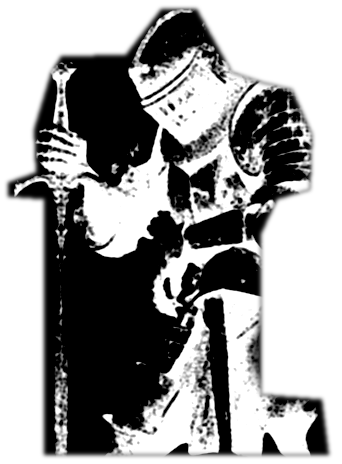
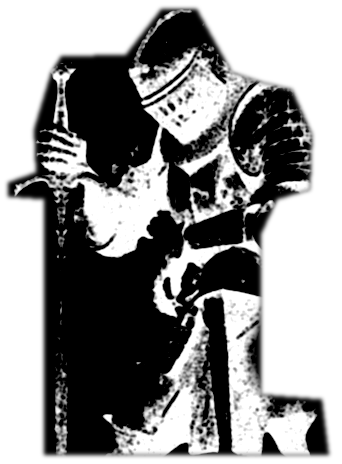
style(about): match kneeling knight to shrine tone and fade

diff --git a/src/components/sections/AboutSection.vue b/src/components/sections/AboutSection.vue
@@ -87,26 +87,25 @@ const { stop: stopSignObserver } = useIntersectionObserver(
            source is thresholded, so the photographed figure in the middle
            breaks into black gaps like the cut-out figures beside it. The
            top fades in a little and the bottom out, so the picture neither
-           starts nor ends in a hard cut. -->
+           starts nor ends in a hard cut. The fade sits on the frame, so the
+           knight in front fades with the shrine. -->
       <div
-        class="pointer-events-none relative order-last mt-12 aspect-[1179/956] w-full lg:absolute lg:inset-y-0 lg:right-0 lg:mt-0 lg:aspect-auto lg:w-[56%]"
+        class="pointer-events-none relative order-last mt-12 aspect-[1179/956] w-full [mask-image:linear-gradient(to_bottom,transparent,black_14%,black_62%,transparent)] lg:absolute lg:inset-y-0 lg:right-0 lg:mt-0 lg:aspect-auto lg:w-[56%]"
       >
         <DitherArt
           :src="shrineArt"
           :cell="4"
           :strength="0.85"
           is-outlined
-          class="absolute inset-0 [mask-image:linear-gradient(to_bottom,transparent,black_14%,black_62%,transparent)]"
+          class="absolute inset-0"
         />
         <!-- A knight kneeling at the shrine's foot, from Jonas' mockup, in
              the shrine's halftone. The cut-out was grain, which the dots
              averaged into one grey field, so its source is blurred to tones
-             and darkened in the mids. Its alpha is his silhouette: a void
-             shape in it hides the shrine, or its dots would show through
-             his dark armour. -->
-        <div
-          class="absolute bottom-0 left-[2%] aspect-[342/464] w-[30%] [mask-image:linear-gradient(to_bottom,black_88%,transparent)]"
-        >
+             and thresholded (175/245) to the brightness of the shrine's
+             lower half. Its alpha is his silhouette: a void shape in it
+             hides the shrine, or its dots would show through his armour. -->
+        <div class="absolute bottom-0 left-[2%] aspect-[342/464] w-[30%]">
           <span
             aria-hidden="true"
             class="absolute inset-0 bg-void [mask-size:100%_100%]"

diff --git a/CLAUDE.md b/CLAUDE.md
@@ -144,9 +144,12 @@ copy so the text keeps the focus. A kneeling knight (`knight-kneeling.png`,
 cut from a later mockup of Jonas', 2026-11-02) sits in front of the
 shrine's lower left in the same halftone (`cell` 3, he is small). The
 cut-out was grain, which the dots averaged into one bright grey field, so
-the source is blurred 1 px to tones and darkened (levels from 0.2, gamma
-1.5). Shown as the plain picture he was far too bright and off-style
-(Jonas). Its alpha is his silhouette; a `void` shape masked by it hides the
+the source is blurred 1 px to tones and then thresholded (175 black, 245
+white) to the brightness of the shrine's lower half (mean ~82, a fifth pure
+white); a soft gamma curve left three times the shrine's mid-greys, and the
+shrine's own 155/230 left him too white (Jonas). The bottom fade sits on the
+frame around both, so he fades out with the shrine. Shown as the plain
+picture he was far too bright and off-style. Its alpha is his silhouette; a `void` shape masked by it hides the
 shrine, whose dots would otherwise show through his dark armour.
 
 **Print textures** (`DitherArt`, since 2026-11-01): the sibling of
